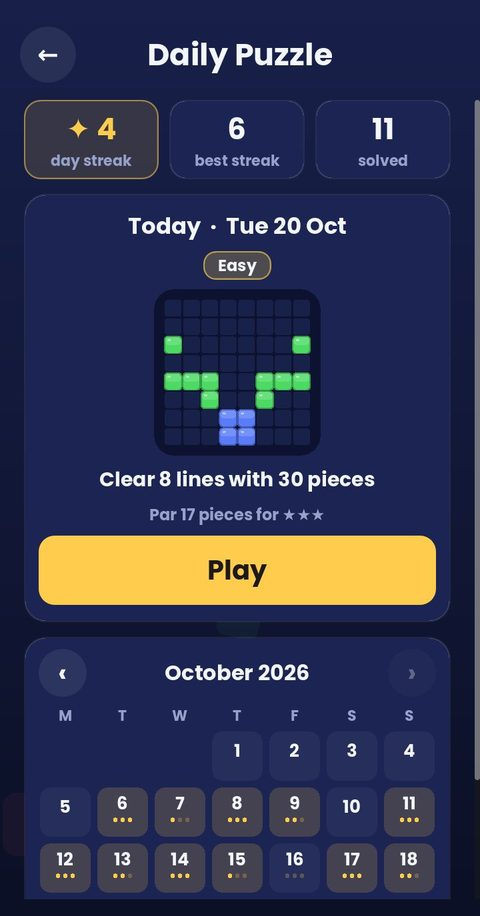
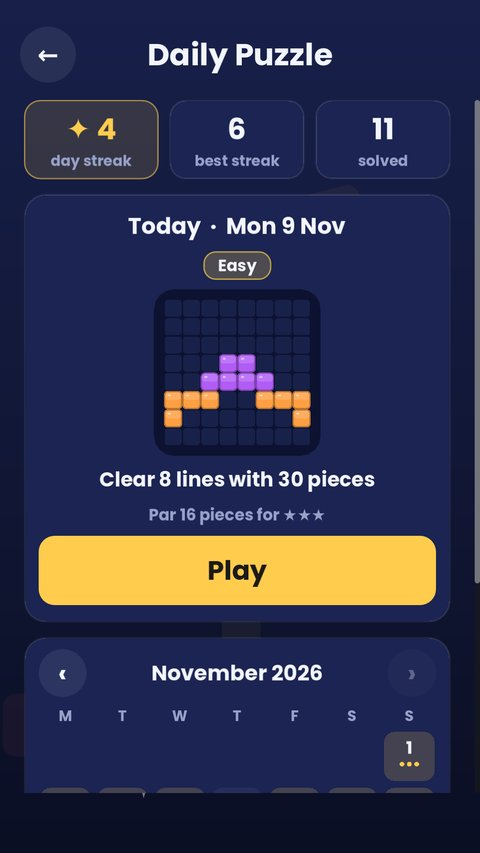
Fair Square is live: Google Play link, new screenshots

diff --git a/index.html b/index.html
@@ -4,7 +4,7 @@
 <meta charset="utf-8">
 <meta name="viewport" content="width=device-width, initial-scale=1">
 <title>Lanternbit Labs</title>
-<meta name="description" content="Lanternbit Labs makes small, fair mobile games and apps. Home of Fair Square, a calm block puzzle, and Stepluma, a step counter that turns walking into scroll time.">
+<meta name="description" content="Lanternbit Labs makes small, fair mobile games and apps. Home of Fair Square, a calm block puzzle on Google Play, and Stepluma, a step counter that turns walking into scroll time.">
 <meta property="og:title" content="Lanternbit Labs">
 <meta property="og:description" content="Small games and apps, made fair.">
 <meta property="og:image" content="assets/lanternbit-emblem.png">
@@ -61,6 +61,10 @@
   .game-head img { width:84px; height:84px; border-radius:20px; }
   .game-head h3 { margin:0; font-size:1.5rem; }
   .pill { display:inline-block; background:#efe6ff; color:var(--violet); border-radius:999px; padding:3px 12px; font-size:.82rem; font-weight:600; margin-top:4px; }
+  .pill.live { background:#e3f7ea; color:#11743a; text-decoration:none; }
+  .get { margin:18px 0 6px; }
+  .btn.get-play { background:var(--violet); color:#fff; }
+  .btn.get-play:hover { filter:brightness(1.1); }
   .game > p { color:var(--sub); margin:18px 0 22px; }
   .shots { display:grid; grid-template-columns:repeat(4, 1fr); gap:14px; }
   .shots img { width:100%; border-radius:18px; border:1px solid var(--line); display:block; }
@@ -135,23 +139,24 @@
       <div class="game-head">
         <img src="fair-square/icon.svg" alt="Fair Square app icon">
         <div>
-          <h3>Fair Square</h3>
-          <span class="pill">Coming soon to Google Play</span>
+          <h3>Fair Square: Block Puzzle</h3>
+          <a class="pill live" href="https://play.google.com/store/apps/details?id=com.lanternbitlabs.fairsquare">Available on Google Play</a>
         </div>
       </div>
-      <p>A calm block puzzle without the things people hate. Drag pieces onto the board, clear rows and columns, build combos, and come back every day for a new Daily Puzzle.</p>
+      <p>A calm block puzzle without the things people hate. Drag pieces onto the board, clear rows and columns, build combos, race the clock in 2-minute Blitz, and come back every day for a new Daily Puzzle and fresh missions.</p>
       <div class="shots">
-        <img src="fair-square/screens/menu.jpg" alt="Fair Square menu" loading="lazy">
-        <img src="fair-square/screens/play.jpg" alt="Placing a piece that clears a line" loading="lazy">
+        <img src="fair-square/screens/menu.jpg" alt="Fair Square menu with level, coins and Blitz" loading="lazy">
+        <img src="fair-square/screens/play.jpg" alt="A combo clear with NEXT and HOLD" loading="lazy">
+        <img src="fair-square/screens/blitz.jpg" alt="Blitz mode with the 2-minute clock" loading="lazy">
         <img src="fair-square/screens/daily.jpg" alt="Daily Puzzle calendar and streak" loading="lazy">
-        <img src="fair-square/screens/solved.jpg" alt="Daily Puzzle solved with three stars" loading="lazy">
       </div>
       <div class="features">
         <div class="feature"><b>Fair pieces</b><span>Every set of 3 is checked to fit.</span></div>
         <div class="feature"><b>Fair ads</b><span>Never while you play.</span></div>
-        <div class="feature"><b>Always saved</b><span>Close it any time, nothing is lost.</span></div>
+        <div class="feature"><b>Blitz</b><span>2 fast minutes; every clear adds time.</span></div>
         <div class="feature"><b>Daily Puzzle</b><span>Stars, streaks and a calendar.</span></div>
       </div>
+      <p class="get"><a class="btn get-play" href="https://play.google.com/store/apps/details?id=com.lanternbitlabs.fairsquare">Get it on Google Play</a></p>
       <div class="game-links"><a href="fair-square/privacy.html">Privacy policy</a> · <a href="fair-square/terms.html">Terms of service</a></div>
     </article>
 
